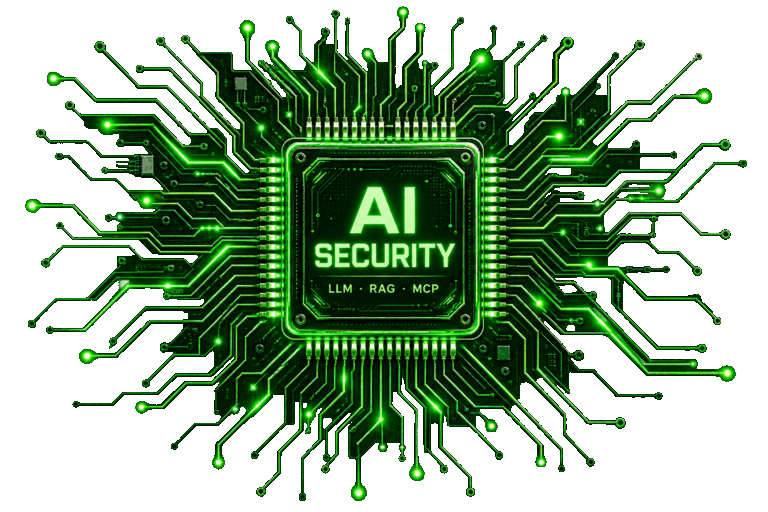
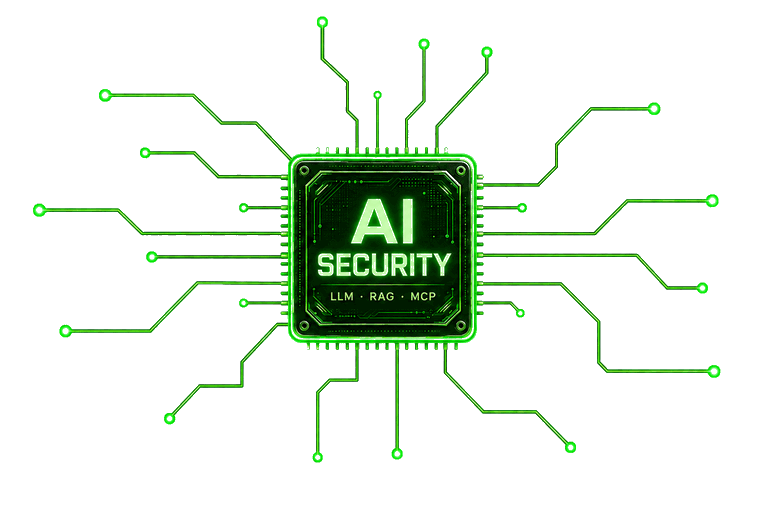
Refine AI processor spacing and portfolio green

diff --git a/app/globals.css b/app/globals.css
@@ -477,11 +477,11 @@ body {
 
 /* Reference-matched raster processor replaces the simplified CSS illustration. */
 .hero-ai-chip {
-  left: 1.8%;
-  top: 12.5%;
+  left: .8%;
+  top: 10.8%;
   z-index: 5;
-  width: 238px;
-  height: 174px;
+  width: 270px;
+  height: 180px;
   filter: none;
 }
 
@@ -490,11 +490,11 @@ body {
   width: 100%;
   height: 100%;
   object-fit: contain;
-  opacity: .9;
+  opacity: .88;
   mix-blend-mode: normal;
   filter: saturate(1.08) contrast(1.16) brightness(.92) drop-shadow(0 0 12px rgba(57,255,140,.34));
-  -webkit-mask-image: radial-gradient(ellipse at center, #000 42%, rgba(0,0,0,.96) 62%, transparent 94%);
-  mask-image: radial-gradient(ellipse at center, #000 42%, rgba(0,0,0,.96) 62%, transparent 94%);
+  -webkit-mask-image: none;
+  mask-image: none;
   animation: heroAiImagePulse 3.4s ease-in-out infinite;
 }
 
